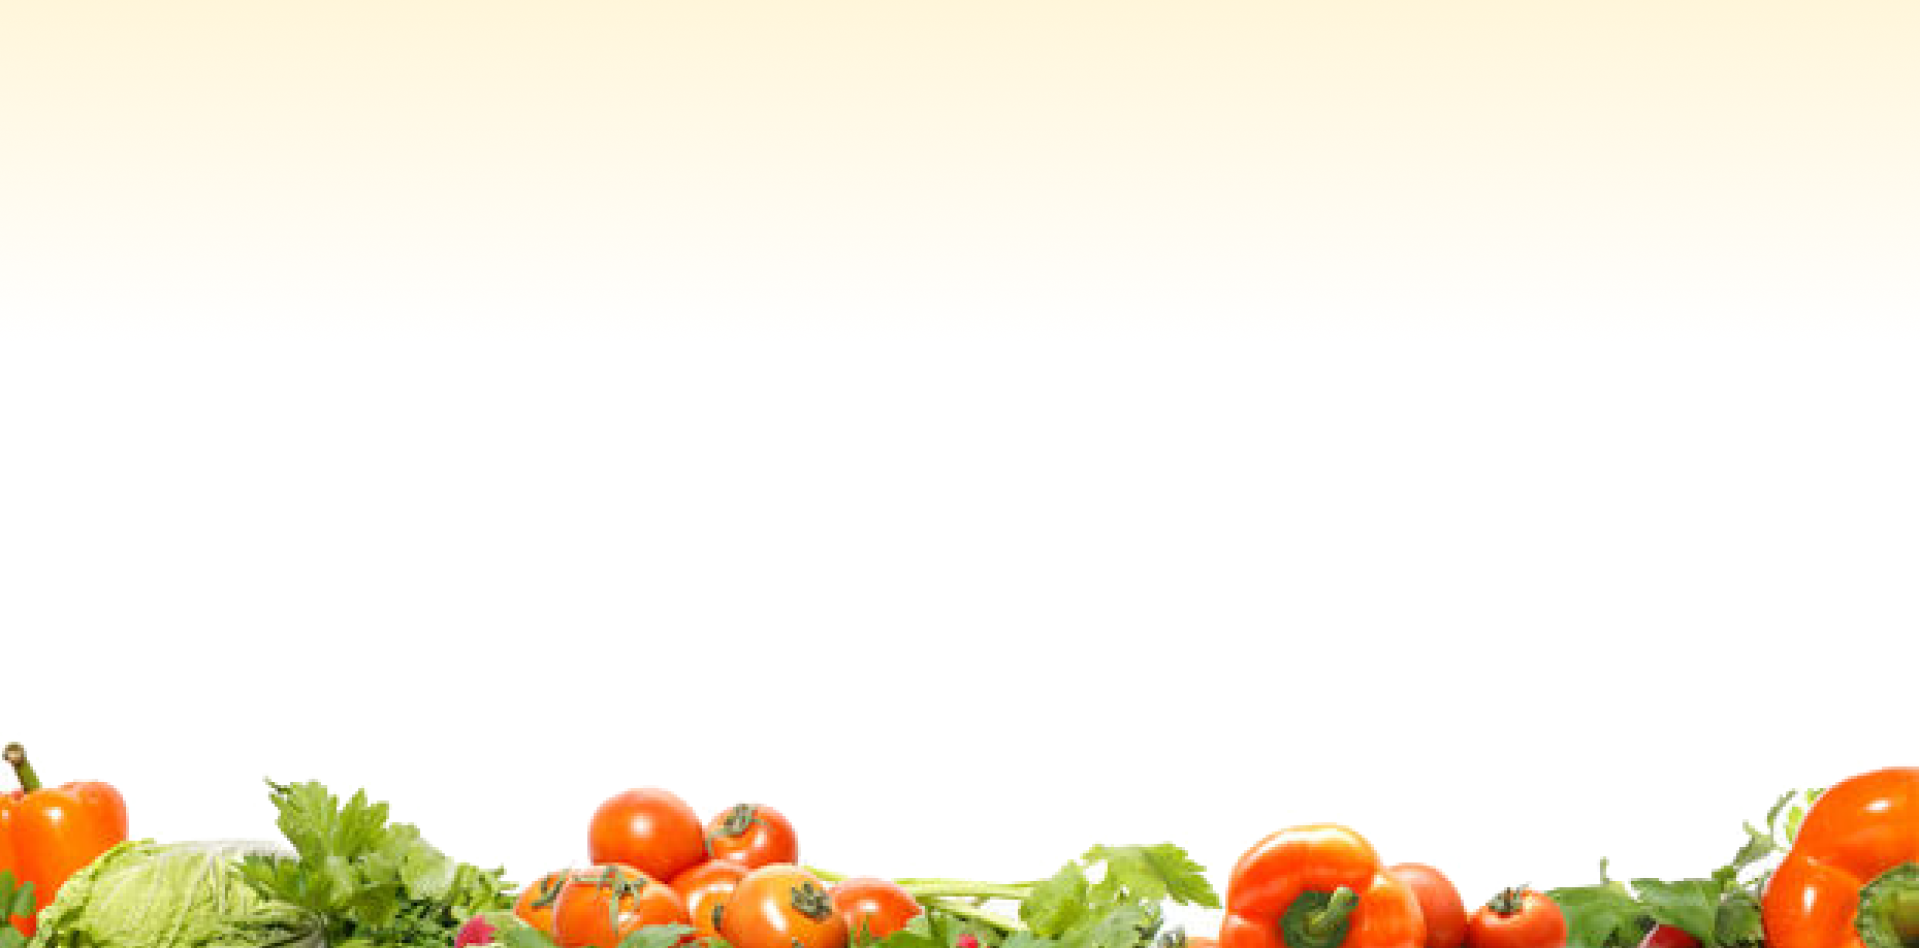
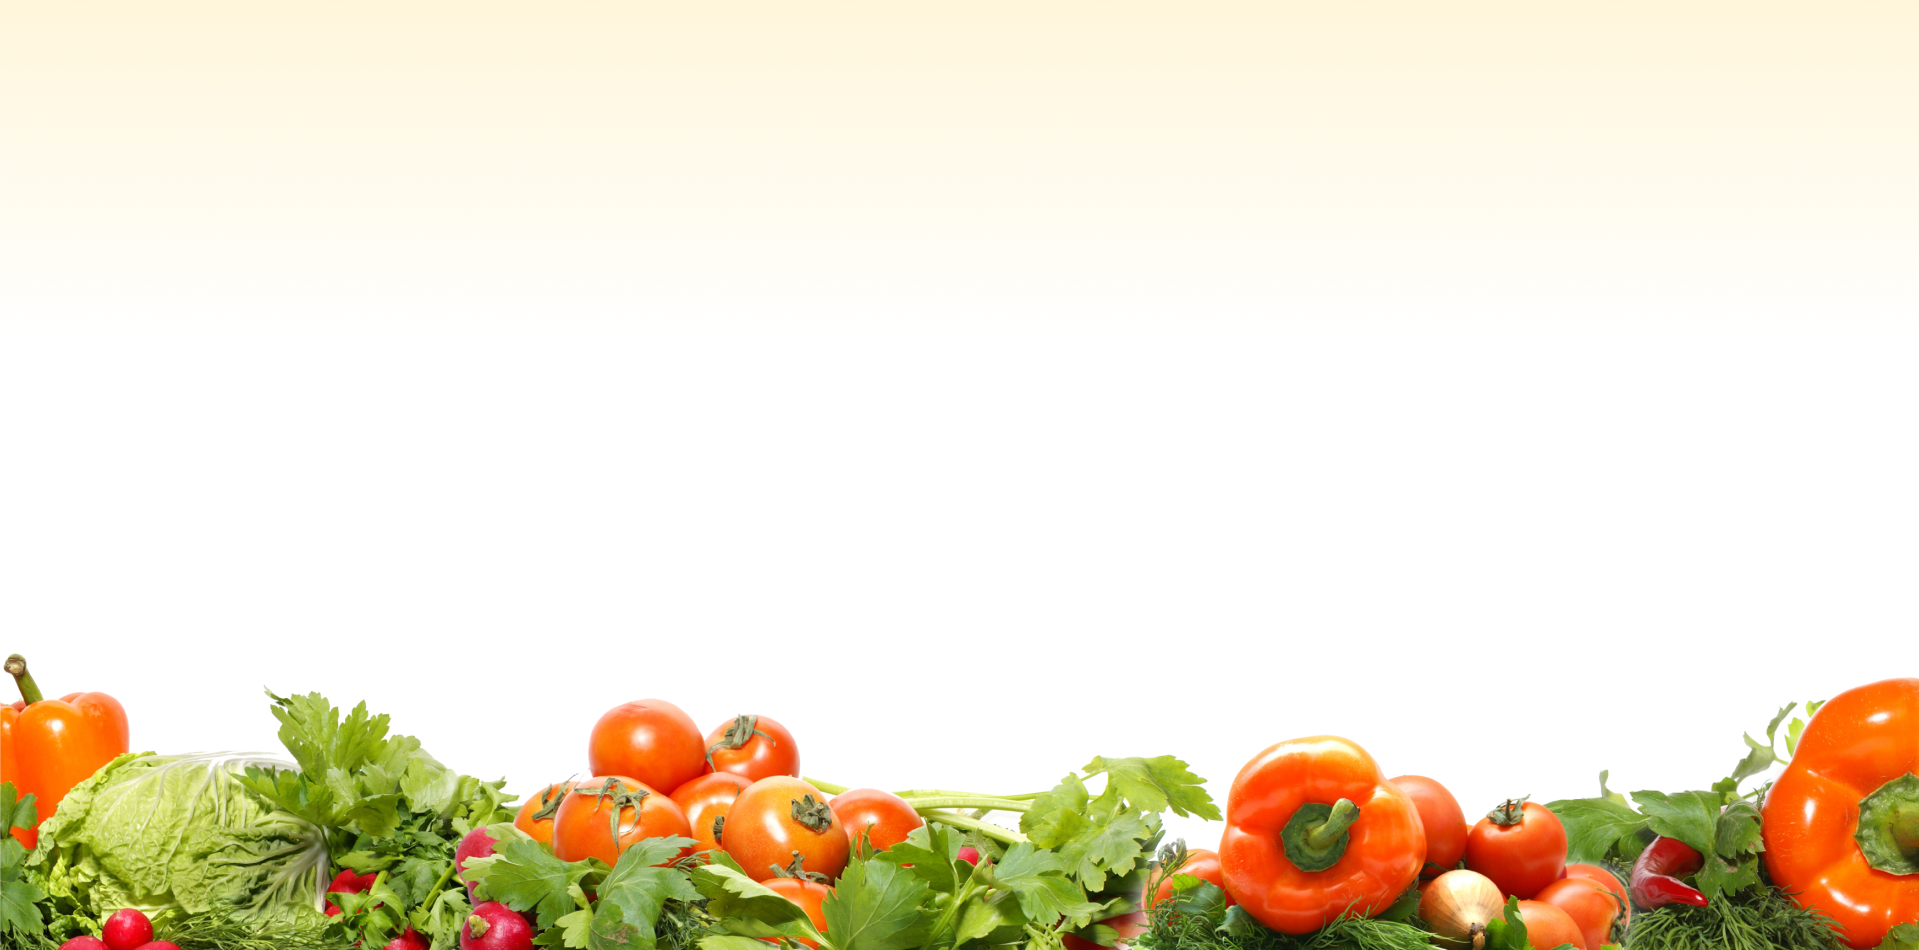
메인 5일장 사진 교체, 푸터쪽의 농담 링크 삭제, 제품 상세페이지 리뷰 부분  보완

Changed region(s): [[0.0, 0.673, 1.0, 1.0]]

diff --git a/frontend/src/Components/Yehoon/Components/ProductPage/ProductPage.js b/frontend/src/Components/Yehoon/Components/ProductPage/ProductPage.js
@@ -106,29 +106,7 @@ const ProductPage = () => {
       value: "4.8",
       reviewCount: "39",
       detailImage: undefined,
-      review: [
-        {
-          user: "Geunsoo",
-          text: "빠른 배송 감사합니다^^ 엄마가 너무 맛있다며 껍질까지 다 먹었다고 하네요~~맛있게 잘 먹겠습니다!!",
-          value: 4,
-          date: "2022.09.22",
-          image: ["/img/exam-1.png", "/img/exam-2.png", "/img/exam-3.png"],
-        },
-        {
-          user: "yesli4278",
-          text: "여태 사먹어본 그 어떤 곳 보다 품질도 맛도 좋았습니다. 재주문하러 가요.",
-          value: 4,
-          date: "2022.09.22",
-          image: ["/img/exam-4.png", "/img/exam-1.png", "/img/exam-2.png"],
-        },
-        {
-          user: "injung7714",
-          text: "넘 맛있어요… 최고에요 또 시켜먹고 싶어요 또 시켜먹을게요",
-          value: 5,
-          date: "2022.09.22",
-          image: ["/img/exam-3.png", "/img/exam-2.png", "/img/exam-4.png"],
-        },
-      ],
+      review: [],
     },
   ];
 

diff --git a/frontend/src/Components/Yehoon/Components/ProductPage/ProductReviewForm.js b/frontend/src/Components/Yehoon/Components/ProductPage/ProductReviewForm.js
@@ -28,7 +28,15 @@ const ProductReviewBox = styled.div`
 const ReviewBox = styled.div`
   width: 1280px;
   display: flex;
+  justify-content: center;
+  align-items: center;
   flex-direction: column;
+
+  & > h1 {
+    font-family: "SCD-7";
+    font-size: 4rem;
+    margin: 50px auto;
+  }
 `;
 
 const ProductReviewForm = ({ data }) => {
@@ -59,12 +67,14 @@ const ProductReviewForm = ({ data }) => {
     <ProductReviewBox>
       <div>상품 후기</div>
       <div>
-        {average !== undefined ? average : 0} / 5{" "}
+        {average >= 0 ? average : 0} / 5
         <span>
           ({data.review !== undefined ? data.review.length : 0}개의 후기)
         </span>
       </div>
-      <ReviewBox>{reviewItem}</ReviewBox>
+      <ReviewBox>
+        {reviewItem.length >= 1 ? reviewItem : <h1>리뷰가 없습니다</h1>}
+      </ReviewBox>
       <ReviewWrite></ReviewWrite>
     </ProductReviewBox>
   );

diff --git a/frontend/src/Components/Yehoon/Components/ProductPage/ReviewWrite.js b/frontend/src/Components/Yehoon/Components/ProductPage/ReviewWrite.js
@@ -26,6 +26,17 @@ const ValueBox = styled.div`
   }
 `;
 
+let TextInput = styled.input`
+  width: 985px;
+  height: 80px;
+  border-radius: 10px;
+  border: 1px solid ${Theme.gray};
+  color: ${Theme.lightblack};
+  font-size: 1.5rem;
+  font-family: "SCD-3";
+  padding-left: 10px;
+`;
+
 const ReviewWrite = () => {
   const [hovered, setHovered] = useState(null);
   const [clicked, setClicked] = useState(null);
@@ -48,17 +59,6 @@ const ReviewWrite = () => {
       />
     );
   });
-
-  let TextInput = styled.input`
-    width: 985px;
-    height: 80px;
-    border-radius: 10px;
-    border: 1px solid ${Theme.gray};
-    color: ${Theme.lightblack};
-    font-size: 1.5rem;
-    font-family: "SCD-3";
-    padding-left: 10px;
-  `;
 
   return (
     <ReviewWriteBox>

diff --git a/frontend/src/Components/Yehoon/Components/HomePage/MainEventMarket/MainEventMarket.js b/frontend/src/Components/Yehoon/Components/HomePage/MainEventMarket/MainEventMarket.js
@@ -7,6 +7,8 @@ const MainEventMarketBox = styled.div`
   width: 1920px;
   height: 948px;
   background: url("/img/mainEventMarketBg.png");
+  background-repeat: no-repeat;
+  background-position: bottom;
   display: flex;
   justify-content: center;
   align-items: center;

diff --git a/frontend/src/Components/Yehoon/Components/LayOut/Footer.js b/frontend/src/Components/Yehoon/Components/LayOut/Footer.js
@@ -177,7 +177,6 @@ const Footer = () => {
             <Link>이용약관</Link>
             <Link>이용안내</Link>
             <Link>입점문의</Link>
-            <Link>농담</Link>
           </div>
           <hr></hr>
         </FooterBoxTop>
